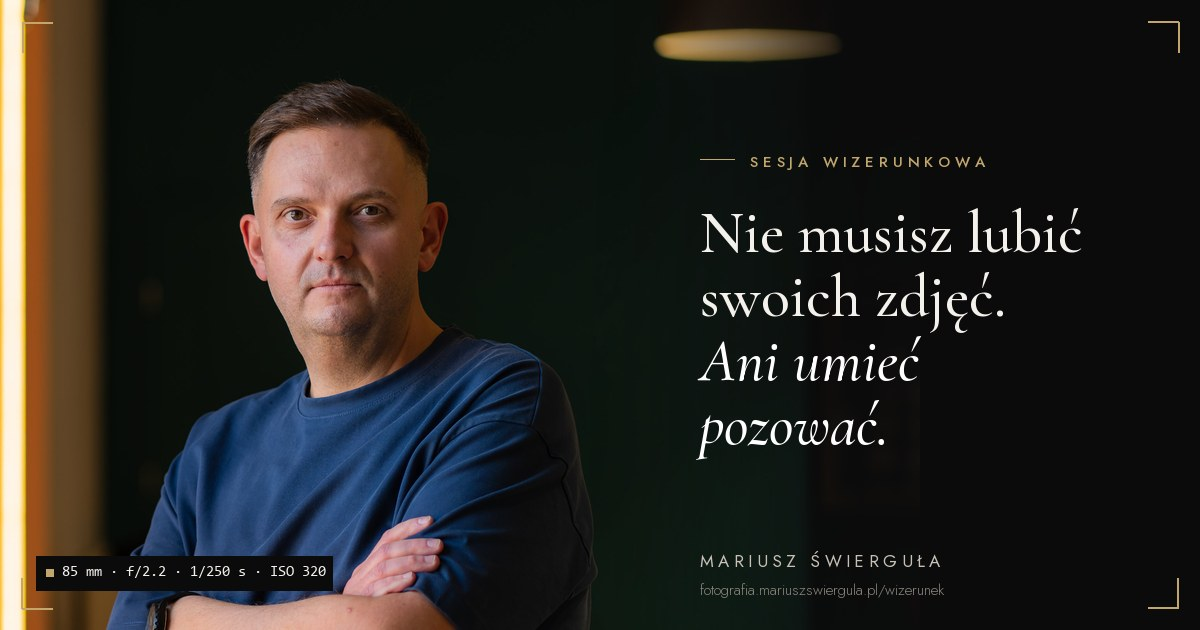
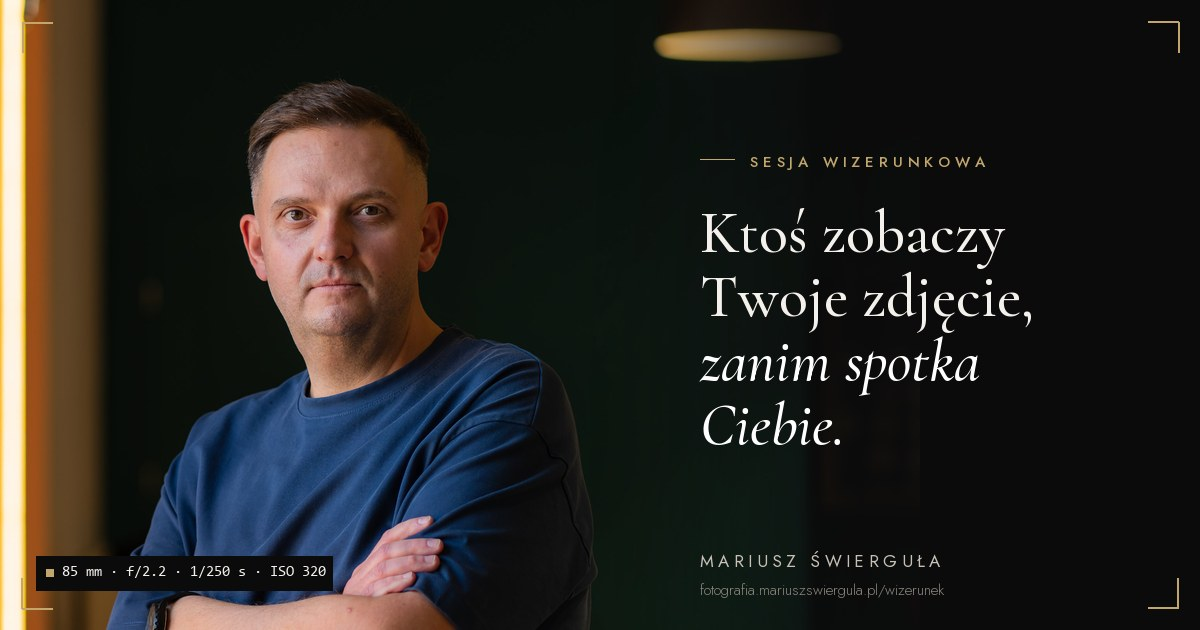
/wizerunek: teksty v4 „prawdziwe zdjęcia, prawdziwy człowiek"
- opowieść od sceny „Ktoś zobaczy Twoje zdjęcie, zanim spotka Ciebie." do puenty
  „Zróbmy prawdziwe zdjęcie. Takie, po którym Cię poznają."
- akapity pod nagłówkami rozdziałów, wzmianka o badaniu z Princeton (2006)
- napisy: „Efekty specjalne: z aparatu, nie z generatora · retusz tylko uzgodniony z Tobą"
- nowy og.jpg z nowym nagłówkiem (?v=20261023c)

Changed region(s): [[0.5858, 0.3317, 0.8942, 0.6333], [0.5858, 0.6333, 0.74, 0.7238]]

diff --git a/wizerunek/index.html b/wizerunek/index.html
@@ -6,25 +6,25 @@
 <meta name="theme-color" content="#0B0B0C">
 <meta name="robots" content="noindex, nofollow">
 <title>Sesja wizerunkowa · Mariusz Świerguła</title>
-<meta name="description" content="Sesje wizerunkowe: zdjęcie do profilu, na stronę zespołu, do oferty, do wywiadu. Każdą układam pod osobę i pod to, gdzie zdjęcie trafi. Łódź i dojazd do klienta.">
+<meta name="description" content="Sesje wizerunkowe w Łodzi i u klienta: zdjęcie do profilu, na stronę zespołu, do oferty. Prawdziwe zdjęcia, prawdziwy człowiek, każdy portret na zamówienie.">
 <link rel="canonical" href="https://fotografia.mariuszswiergula.pl/wizerunek/">
 <meta property="og:type" content="website">
 <meta property="og:locale" content="pl_PL">
 <meta property="og:site_name" content="Mariusz Świerguła Fotografia">
 <meta property="og:title" content="Sesja wizerunkowa · Mariusz Świerguła">
-<meta property="og:description" content="Portrety do profilu, na stronę firmy i do oferty. Bez gotowych póz: każdą sesję układam pod konkretną osobę i jej cel.">
+<meta property="og:description" content="Prawdziwe zdjęcia, prawdziwy człowiek. Portrety do profilu, na stronę firmy i do oferty, każdy na zamówienie: pod Ciebie i Twój cel.">
 <meta property="og:url" content="https://fotografia.mariuszswiergula.pl/wizerunek/">
-<meta property="og:image" content="https://fotografia.mariuszswiergula.pl/wizerunek/img/og.jpg?v=20261023b">
-<meta property="og:image:secure_url" content="https://fotografia.mariuszswiergula.pl/wizerunek/img/og.jpg?v=20261023b">
+<meta property="og:image" content="https://fotografia.mariuszswiergula.pl/wizerunek/img/og.jpg?v=20261023c">
+<meta property="og:image:secure_url" content="https://fotografia.mariuszswiergula.pl/wizerunek/img/og.jpg?v=20261023c">
 <meta property="og:image:type" content="image/jpeg">
 <meta property="og:image:width" content="1200">
 <meta property="og:image:height" content="630">
-<meta property="og:image:alt" content="Portret mężczyzny ze skrzyżowanymi rękami w biurze i napis: Nie musisz lubić swoich zdjęć. Ani umieć pozować.">
+<meta property="og:image:alt" content="Portret mężczyzny ze skrzyżowanymi rękami w biurze i napis: Ktoś zobaczy Twoje zdjęcie, zanim spotka Ciebie.">
 <meta name="twitter:card" content="summary_large_image">
 <meta name="twitter:title" content="Sesja wizerunkowa · Mariusz Świerguła">
-<meta name="twitter:description" content="Portrety do profilu, na stronę firmy i do oferty. Bez gotowych póz: każdą sesję układam pod konkretną osobę i jej cel.">
-<meta name="twitter:image" content="https://fotografia.mariuszswiergula.pl/wizerunek/img/og.jpg?v=20261023b">
-<meta name="twitter:image:alt" content="Portret mężczyzny ze skrzyżowanymi rękami i napis: Nie musisz lubić swoich zdjęć. Ani umieć pozować.">
+<meta name="twitter:description" content="Prawdziwe zdjęcia, prawdziwy człowiek. Portrety do profilu, na stronę firmy i do oferty, każdy na zamówienie: pod Ciebie i Twój cel.">
+<meta name="twitter:image" content="https://fotografia.mariuszswiergula.pl/wizerunek/img/og.jpg?v=20261023c">
+<meta name="twitter:image:alt" content="Portret mężczyzny ze skrzyżowanymi rękami i napis: Ktoś zobaczy Twoje zdjęcie, zanim spotka Ciebie.">
 <link rel="icon" href="../assets/favicon.svg" type="image/svg+xml">
 <link rel="preconnect" href="https://fonts.googleapis.com">
 <link rel="preconnect" href="https://fonts.gstatic.com" crossorigin>
@@ -146,6 +146,9 @@ figcaption{display:flex;justify-content:space-between;align-items:baseline;gap:.
 .slate__n{font-family:var(--serif);font-size:1rem;letter-spacing:.1em;color:var(--champagne)}
 .ch h2{font-size:var(--fs-h2);max-width:20ch}
 .ch h2+*{margin-top:clamp(2.5rem,5vw,4rem)}
+.ch h2+.ch__p{margin-top:1.4rem}
+.ch__p{font-size:var(--fs-lead);line-height:1.6;color:var(--bone-2);max-width:42ch}
+.ch__p+*{margin-top:clamp(2.5rem,5vw,4rem)}
 .note{font-size:var(--fs-body);color:var(--bone-2);max-width:40ch}
 
 /* 01 CEL: miejsca jako formaty kadru */
@@ -251,7 +254,7 @@ figcaption{display:flex;justify-content:space-between;align-items:baseline;gap:.
     </div>
     <div class="hero__txt">
       <span class="kicker kicker--gold">Sesja wizerunkowa</span>
-      <h1>Nie musisz lubić swoich zdjęć. <em>Ani umieć pozować.</em></h1>
+      <h1>Ktoś zobaczy Twoje zdjęcie, <em>zanim spotka Ciebie.</em></h1>
       <p class="hero__lead">Każdy portret przygotowuję indywidualnie, na zamówienie: pod Twój charakter i cel, który chcesz osiągnąć.</p>
     </div>
   </section>
@@ -259,7 +262,8 @@ figcaption{display:flex;justify-content:space-between;align-items:baseline;gap:.
   <section class="ch" aria-labelledby="h-cel">
     <div class="wrap">
       <p class="slate"><span class="slate__n">01</span><span class="kicker">Cel</span></p>
-      <h2 id="h-cel" class="rv">Najpierw pytam, <em>gdzie to zdjęcie trafi i kto je zobaczy.</em></h2>
+      <h2 id="h-cel" class="rv">Zdjęcie idzie na spotkanie pierwsze. <em>Pytam, dokąd i&nbsp;do kogo.</em></h2>
+      <p class="ch__p rv">Ktoś, kto Cię nie zna, wyrobi sobie z&nbsp;niego zdanie. Potem porówna je z&nbsp;Tobą na żywo.</p>
       <ul class="formats rv" aria-label="Miejsca, do których robię zdjęcia, i ich format">
         <li><span class="fr" style="aspect-ratio:1/1"></span><span><b>profil</b><span class="cap">kwadrat</span></span></li>
         <li><span class="fr" style="aspect-ratio:4/5"></span><span><b>strona zespołu</b><span class="cap">pion</span></span></li>
@@ -273,10 +277,11 @@ figcaption{display:flex;justify-content:space-between;align-items:baseline;gap:.
   <section class="ch" aria-labelledby="h-wrazenie">
     <div class="wrap">
       <p class="slate"><span class="slate__n">02</span><span class="kicker">Wrażenie</span></p>
-      <h2 id="h-wrazenie" class="rv">Jakie wrażenie <em>chcesz zrobić?</em></h2>
+      <h2 id="h-wrazenie" class="rv">Na pierwsze wrażenie z&nbsp;twarzy <em>wystarcza jedna dziesiąta sekundy.</em></h2>
+      <p class="ch__p rv">Tak pokazało badanie psychologów z&nbsp;Princeton z&nbsp;2006 roku. A&nbsp;różne zdjęcia tej samej osoby budzą różne wrażenia.</p>
       <figure class="solo rv">
         <div class="vf"><img src="img/wrazenie-1400.jpg" srcset="img/wrazenie-1000.jpg 1000w, img/wrazenie-1400.jpg 1400w" sizes="(max-width:700px) 100vw, 640px" width="1400" height="2100" loading="lazy" alt="Kobieta o długich ciemnych włosach w niebieskiej bluzce siedzi na krześle, dłoń przy brodzie, patrzy prosto w obiektyw, czarne tło"></div>
-        <figcaption><span class="note">Wybieramy jedno, które pasuje do Ciebie, na przykład pewność siebie.</span><span class="exif">85 mm · f/1.8 · 1/1250 s</span></figcaption>
+        <figcaption><span class="note">Dlatego najpierw ustalamy jedno wrażenie, które pasuje do Ciebie, na przykład pewność siebie.</span><span class="exif">85 mm · f/1.8 · 1/1250 s</span></figcaption>
       </figure>
     </div>
   </section>
@@ -284,7 +289,8 @@ figcaption{display:flex;justify-content:space-between;align-items:baseline;gap:.
   <section class="ch" aria-labelledby="h-swiatlo">
     <div class="wrap">
       <p class="slate"><span class="slate__n">03</span><span class="kicker">Światło</span></p>
-      <h2 id="h-swiatlo" class="rv">Światło dobieram <em>dopiero po rozmowie.</em></h2>
+      <h2 id="h-swiatlo" class="rv">Światło bywa ustawione. <em>Człowiek w nim jest prawdziwy.</em></h2>
+      <p class="ch__p rv">Dobieram je dopiero po rozmowie z&nbsp;Tobą.</p>
       <div class="lights">
         <div class="light rv">
           <figure>
@@ -308,6 +314,7 @@ figcaption{display:flex;justify-content:space-between;align-items:baseline;gap:.
     <div class="wrap">
       <p class="slate"><span class="slate__n">04</span><span class="kicker">Kadr</span></p>
       <h2 id="h-kadr" class="rv">Szeroko widać miejsce. <em>Blisko widać Ciebie.</em></h2>
+      <p class="ch__p rv">Na obu zdjęciach ta sama osoba. Kadr zmienia to, co widać wokół niej, a&nbsp;nie ją.</p>
       <div class="duo rv">
         <figure><div class="vf"><img src="img/sofa-1200.jpg" srcset="img/sofa-1200.jpg 1200w, img/sofa-1600.jpg 1600w" sizes="(max-width:1280px) 50vw, 600px" width="1600" height="2400" loading="lazy" alt="Kobieta siedzi na sofie w jasnym salonie, widać całą sylwetkę i wnętrze"></div><figcaption><span class="cap">Szeroko</span><span class="exif">85 mm · f/5.6 · 1/160 s</span></figcaption></figure>
         <figure><div class="vf"><img src="img/portret-1200.jpg" srcset="img/portret-1200.jpg 1200w, img/portret-1800.jpg 1800w" sizes="(max-width:1280px) 50vw, 600px" width="1800" height="2700" loading="lazy" alt="Ta sama kobieta w bliskim portrecie na szarym tle"></div><figcaption><span class="cap">Blisko</span><span class="exif">85 mm · f/5.6 · 1/160 s</span></figcaption></figure>
@@ -319,6 +326,7 @@ figcaption{display:flex;justify-content:space-between;align-items:baseline;gap:.
     <div class="wrap">
       <p class="slate"><span class="slate__n">05</span><span class="kicker">Zespół</span></p>
       <h2 id="h-zespol" class="rv">Jedno światło dla całego zespołu. <em>Każdy wygląda po swojemu.</em></h2>
+      <p class="ch__p rv">Klient, który potem przyjdzie do biura, spotka tych samych ludzi, których widział na stronie.</p>
       <div class="team rv">
         <figure><div class="vf"><img src="img/spokoj-2400.jpg" srcset="img/spokoj-1200.jpg 1200w, img/spokoj-2400.jpg 2400w" sizes="(max-width:1280px) 100vw, 1168px" width="2400" height="1350" loading="lazy" alt="Kobieta w czarnej bluzce, spokojne spojrzenie w obiektyw, za nią ciemnozielona ściana i pionowy pas światła"></div><figcaption><span class="cap">Spokojnie</span></figcaption></figure>
         <figure><div class="vf"><img src="img/usmiech-1200.jpg" srcset="img/usmiech-1200.jpg 1200w, img/usmiech-2000.jpg 2000w" sizes="(max-width:700px) 100vw, (max-width:1280px) 50vw, 584px" width="2000" height="1125" loading="lazy" alt="Uśmiechnięty mężczyzna w błękitnej koszuli ze skrzyżowanymi rękami"></div><figcaption><span class="cap">Z uśmiechem</span></figcaption></figure>
@@ -337,11 +345,12 @@ figcaption{display:flex;justify-content:space-between;align-items:baseline;gap:.
         <div><span>Przed moim obiektywem stawali między innymi</span><b>Adam&nbsp;Michnik · Jerzy&nbsp;Pilch · Janina&nbsp;Paradowska · Kuba&nbsp;Wojewódzki · Katarzyna&nbsp;Kolenda&#8209;Zaleska</b></div>
         <div><span>Sprzęt</span><b>Sony α7R V, obiektyw 85 mm</b></div>
         <div><span>Plan zdjęciowy</span><b>Łódź albo Twoje biuro, także poza Łodzią</b></div>
-        <div><span>Scenariusz</span><b>pisany od nowa dla każdej osoby</b></div>
-        <div><span>W roli głównej</span><b>Ty</b></div>
+        <div><span>Scenariusz</span><b>pisany po rozmowie, od nowa dla każdej osoby</b></div>
+        <div><span>Efekty specjalne</span><b>z aparatu, nie z generatora · retusz tylko uzgodniony z Tobą</b></div>
+        <div><span>W roli głównej</span><b>Ty, we własnej osobie</b></div>
       </div>
       <div class="final">
-        <h2 id="h-kontakt">Powiedz, <em>do czego potrzebujesz zdjęć.</em></h2>
+        <h2 id="h-kontakt">Zróbmy prawdziwe zdjęcie. <em>Takie, po którym Cię poznają.</em></h2>
         <div class="btns">
           <a class="btn btn--solid" href="tel:+48600353150">Zadzwoń · 600 353 150</a>
           <a class="btn" href="mailto:mariusz.swiergula@gmail.com?subject=Sesja%20wizerunkowa">Napisz</a>
